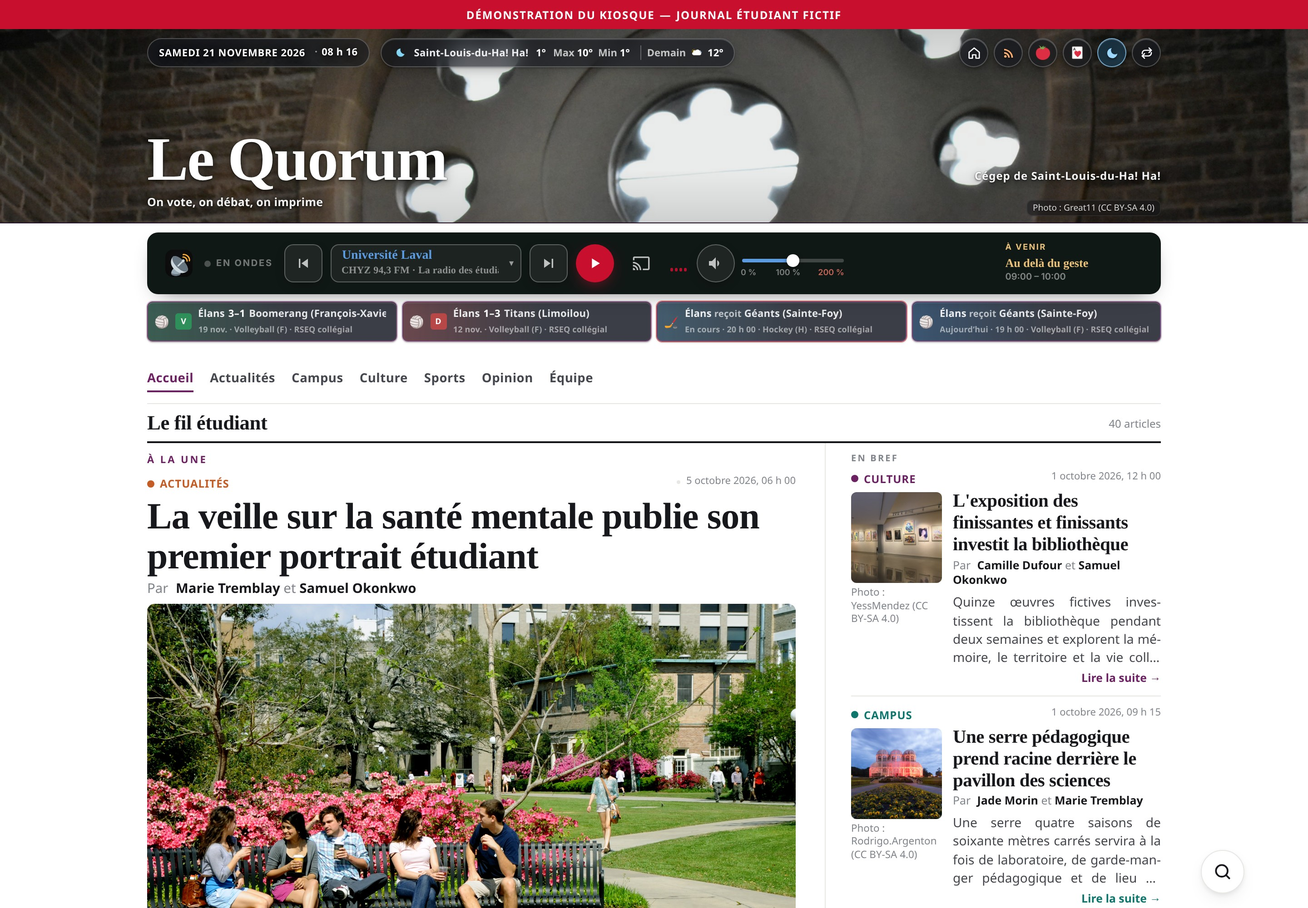
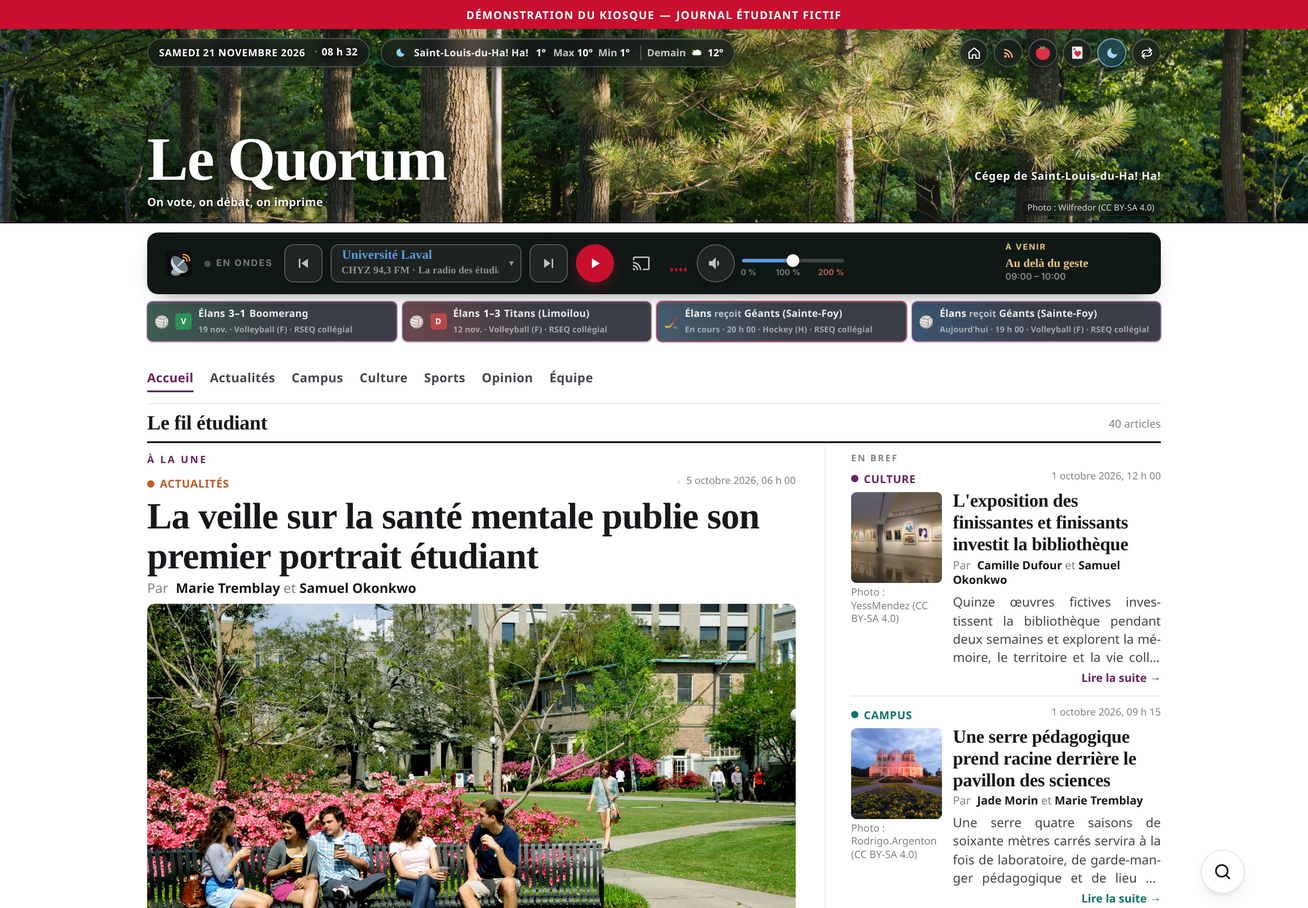
Retire la rosace du mât et reprend les captures touchées
La rosace du pavillon Judith-Jasmin reste dans la banque : ses trous blancs
se confondaient avec le titre. Les captures d’accueil, d’article et
d’assistant montrent un campus large et le bouton de fichier en français.

Changed region(s): [[0.0, 0.031, 1.0, 0.248], [0.25, 0.341, 0.2812, 0.372]]

diff --git a/site/index.html b/site/index.html
@@ -112,7 +112,7 @@
         <p class="intro">L’espace de rédaction, c’est le Socle : l’interface d’administration et son serveur, livrés dans le même paquet. Chaque journal installe sa propre copie. Les captures ci-dessous viennent du Quorum, la démonstration officielle, et de l’assistant d’installation.</p>
         <div class="pair pair--two gallery">
           <figure class="shot shot--tall">
-            <img src="{{BASE_PATH}}/assets/captures/assistant-installation.jpg" width="2560" height="3848" alt="Assistant d’installation du journal, avec les champs du nom, des rubriques, de l’apparence et du compte administrateur encore vides." loading="lazy">
+            <img src="{{BASE_PATH}}/assets/captures/assistant-installation.jpg" width="2560" height="3896" alt="Assistant d’installation du journal, avec les champs du nom, des rubriques, de l’apparence et du compte administrateur encore vides." loading="lazy">
             <figcaption>L’assistant d’installation, à la première visite.</figcaption>
           </figure>
           <figure class="shot shot--tall">
